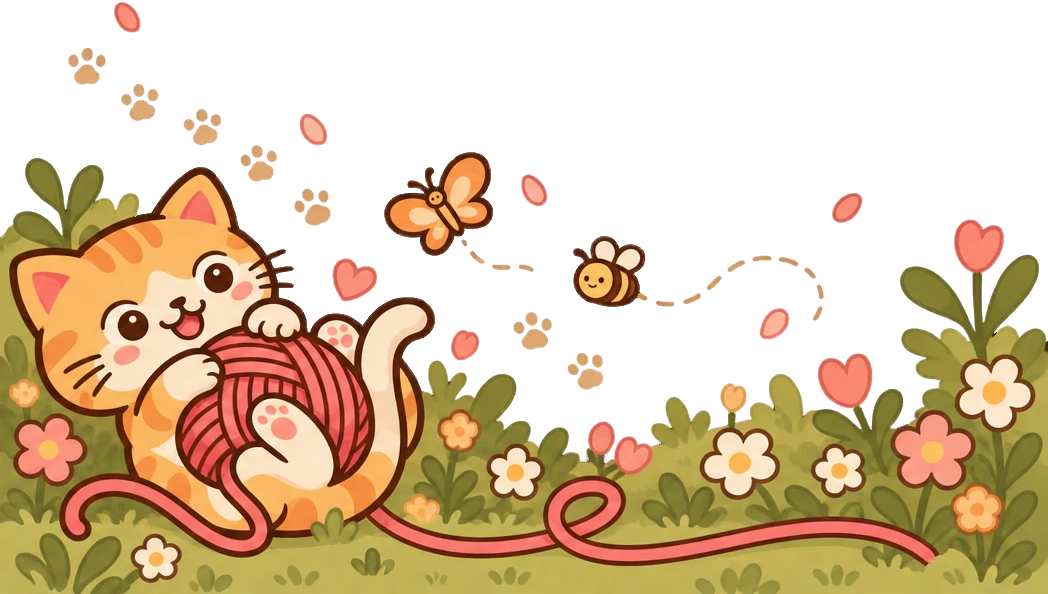
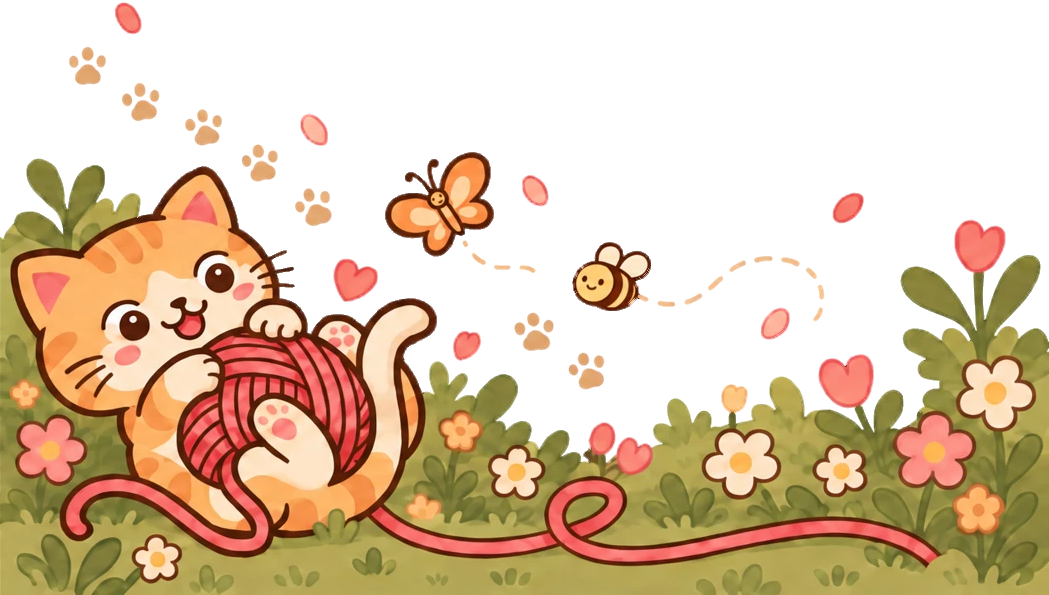
fix(theme): update Meo's World background artwork

diff --git a/src/components/__tests__/ThemeAmbience.test.tsx b/src/components/__tests__/ThemeAmbience.test.tsx
@@ -27,11 +27,11 @@ describe("Meo's World background artwork", () => {
     const picture = scene.match(/<picture class="meo-world">([\s\S]*?)<\/picture>/);
     expect(picture).not.toBeNull();
     // The browser downloads only the composition it shows
-    expect(picture![1]).toMatch(/<source media="\(min-width: 640px\)" srcSet="[^"]*meo-world-desktop[^"]*\.png" width="1048" height="594"\/>/);
+    expect(picture![1]).toMatch(/<source media="\(min-width: 640px\)" srcSet="[^"]*meo-world-desktop[^"]*\.png" width="1049" height="595"\/>/);
     const img = picture![1].match(/<img[^>]*>/)![0];
     expect(img).toMatch(/src="[^"]*meo-world-mobile[^"]*\.png"/);
-    expect(img).toContain('width="483"');
-    expect(img).toContain('height="845"');
+    expect(img).toContain('width="484"');
+    expect(img).toContain('height="846"');
     expect(img).toContain('alt=""');
     expect(img).toContain('loading="lazy"');
     expect(img).toContain('draggable="false"');

diff --git a/src/components/ThemeAmbience.tsx b/src/components/ThemeAmbience.tsx
@@ -191,12 +191,12 @@ export const MeoEdgeAmbience: React.FC<{ wideOnly?: boolean }> = ({ wideOnly = f
 const MeoWorldScene: React.FC = () => (
   <div className="ambience-scene ambience-meo">
     <picture className="meo-world">
-      <source media="(min-width: 640px)" srcSet={meoWorldDesktop} width={1048} height={594} />
+      <source media="(min-width: 640px)" srcSet={meoWorldDesktop} width={1049} height={595} />
       <img
         src={meoWorldMobile}
         alt=""
-        width={483}
-        height={845}
+        width={484}
+        height={846}
         loading="lazy"
         decoding="async"
         draggable={false}

diff --git a/docs/DESIGN_SYSTEM.md b/docs/DESIGN_SYSTEM.md
@@ -554,7 +554,7 @@ Internal id `meo` (`data-theme="meo"`). Not a standard theme: Settings reveals i
 **Visual contract**
 - **Palette:** warm orange fur, cream, milk-white, warm brown outline, honey/peach accents, darker tabby stripes. Not every surface is orange.
 - **Role separation still holds:** canvas = honey cat-world atmosphere; content surfaces = opaque milk-white/cream islands; categories = recognizable identity (Vocabulary stays cool lilac, Kanji becomes honey tabby); CTA = the strongest, rich orange with a dark brown physical lip.
-- **Full cat background = the owner's finished artwork, used as-is.** Two compositions extracted from the owner's source artwork, with only the black background removed (no redrawing, recoloring, sharpening, or resizing): `src/assets/meo/meo-world-mobile.png` (portrait, 483×845) and `src/assets/meo/meo-world-desktop.png` (wide, 1048×594). Each shows the yarn-playing Tango cat in a flower meadow with plants, a butterfly, a bee, hearts, petals, paw prints, and dashed flight trails.
+- **Full cat background = the owner's finished artwork, used as-is.** Two compositions extracted from the owner's source artwork, with only the black background removed (no redrawing, recoloring, sharpening, or resizing): `src/assets/meo/meo-world-mobile.png` (portrait, 484×846) and `src/assets/meo/meo-world-desktop.png` (wide, 1049×595). Each shows the yarn-playing Tango cat in a flower meadow with plants, a butterfly, a bee, hearts, petals, paw prints, and dashed flight trails.
   - **Phones (below `sm`):** the portrait composition at full width, natural proportions, anchored to the bottom of the canvas and resting on the bottom navigation (its lower edge sits 40px below the nav top so the cat stays visible above the bar).
   - **From `sm` (tablet, laptop, desktop):** the wide composition at its natural proportions, scaled down to fit within 100% width and 42vh height, centered on the bottom edge; its cut left/right edges are feathered with a CSS alpha mask (the artwork file is untouched).
   - A single `<picture>` serves both, so the browser downloads only the composition it shows, lazily, and never in other themes. The artwork is never stretched, cropped, repeated, or duplicated.
